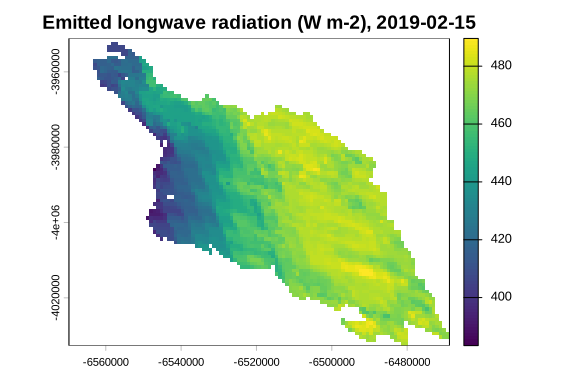
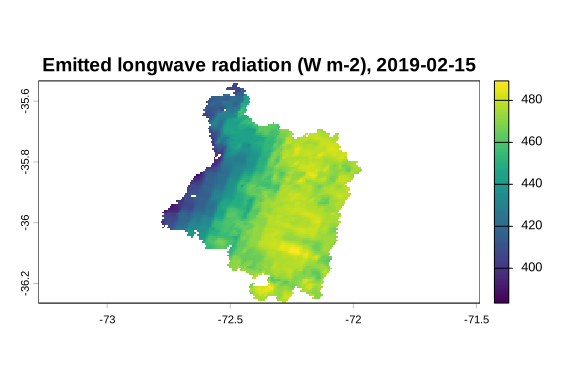
docs: show the example maps in geographic coordinates
The README and the Cauquenes article project the maps to WGS 84 (EPSG:4326) for display only: continuous layers with bilinear interpolation, flag layers with the nearest neighbour. The scene and every computation stay on the native MODIS sinusoidal grid (MP-08).

diff --git a/README.md b/README.md
@@ -170,10 +170,17 @@ terra::global(rl_out, c("min", "mean", "max"), na.rm = TRUE)
 #>             min     mean      max
 #> rl_out 383.4013 458.0683 489.6118
 
-terra::plot(rl_out, main = "Emitted longwave radiation (W m-2), 2019-02-15")
+# Computed on the native grid; shown in geographic coordinates (EPSG:4326)
+rl_out_lonlat <- terra::project(rl_out, "EPSG:4326", method = "bilinear")
+terra::plot(rl_out_lonlat,
+            main = "Emitted longwave radiation (W m-2), 2019-02-15")
 ```
 
 <img src="man/figures/README-example-rl-out-1.png" alt="" width="70%" />
+
+The map is projected to geographic coordinates (WGS 84, EPSG:4326) for
+display only; the scene and every computation stay on the native MODIS
+grid.
 
 The article [Example scene:
 Cauquenes](https://djwillichile.github.io/EarthFlux/articles/cauquenes-example.html)
